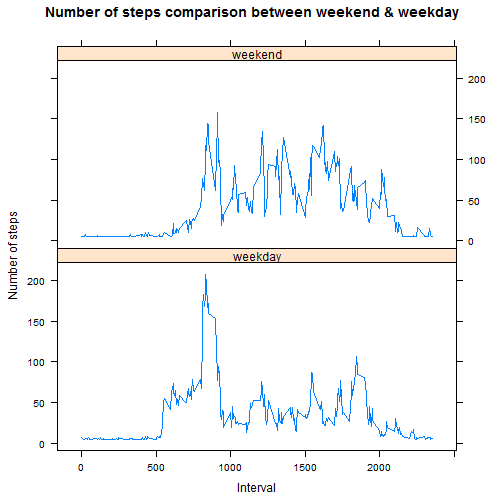
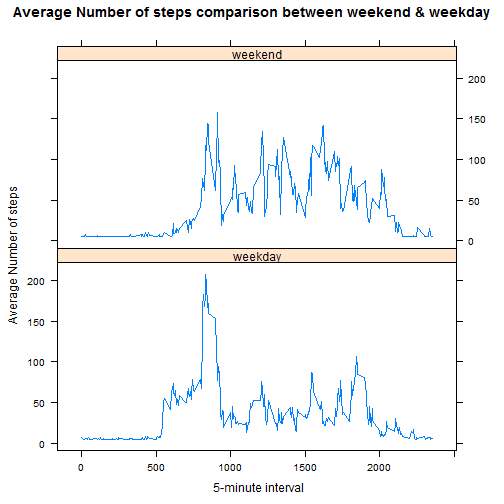
PeerAssessment_1 sumission

Changed region(s): [[0.0298, 0.0, 0.9821, 0.0595], [0.0, 0.3571, 0.0595, 0.6548], [0.4167, 0.9524, 0.625, 0.9821]]

diff --git a/PA1_template.html b/PA1_template.html
@@ -209,24 +209,7 @@ hr {
 
 <pre><code class="r">library(knitr)
 library(dplyr)
-</code></pre>
-
-<pre><code>## Warning: package &#39;dplyr&#39; was built under R version 3.1.3
-</code></pre>
-
-<pre><code>## 
-## Attaching package: &#39;dplyr&#39;
-## 
-## The following object is masked from &#39;package:stats&#39;:
-## 
-##     filter
-## 
-## The following objects are masked from &#39;package:base&#39;:
-## 
-##     intersect, setdiff, setequal, union
-</code></pre>
-
-<pre><code class="r">setwd(&quot;C:/ko/coursea/DataScience/Reproducible Research/PA1&quot;)
+setwd(&quot;C:/ko/coursea/DataScience/Reproducible Research/PA1&quot;)
 LoadData &lt;- read.csv(&quot;activity.csv&quot;)
 </code></pre>
 
@@ -277,11 +260,11 @@ for(i in seq_along(x)){
     }
 x2 &lt;- strptime(x2,format = &quot;%H%M&quot;)  
 plot(x2,avg.steps$average_steps,type = &quot;l&quot;,
-     xlab = &quot;Time&quot;,ylab = &quot;Average number of Steps&quot;, 
-     main = &quot;Average number of steps (averaged across all days)&quot;)
+     xlab = &quot;5-minute interval&quot;,ylab = &quot;Average number of Steps&quot;, 
+     main = &quot;Average number of steps taken (averaged across all days)&quot;)
 </code></pre>
 
[2 lines of base64/hex data omitted]
 
 <p>2: Which 5-minute interval, on average across all the days in the dataset, contains the maximum number of steps?</p>
 
@@ -336,10 +319,10 @@ NewData$steps[row.location.NAS] &lt;- mean.steps
     NewData %&gt;%
     group_by(date) %&gt;%
     summarize(total_steps = sum(steps,na.rm=T))
-hist(new.steps.day$total_steps,xlab=&quot;steps&quot;,main=&quot;Total number of steps taken each day&quot;,col=&quot;blue&quot;)
+hist(new.steps.day$total_steps,xlab=&quot;steps&quot;,main=&quot;Total number of steps taken each day (missing values were imputed)&quot;,col=&quot;blue&quot;)
 </code></pre>
 
[2 lines of base64/hex data omitted]
 
 <pre><code class="r">new.total_steps.mean &lt;- mean(new.steps.day$total_steps)
 new.total_steps.median &lt;- median(new.steps.day$total_steps)
@@ -403,21 +386,16 @@ NewData$weekend &lt;- as.factor(NewData$weekend)
 <p>2: Make a panel plot containing a time series plot (i.e. type = &ldquo;l&rdquo;) of the 5-minute interval (x-axis) and the average number of steps taken, averaged across all weekday days or weekend days (y-axis). See the README file in the GitHub repository to see an example of what this plot should look like using simulated data.</p>
 
 <pre><code class="r">library(lattice)
-</code></pre>
-
-<pre><code>## Warning: package &#39;lattice&#39; was built under R version 3.1.3
-</code></pre>
-
-<pre><code class="r">compare.steps &lt;- 
+compare.steps &lt;- 
     NewData[-2] %&gt;%                         # drop date column
     group_by(interval,weekend) %&gt;%
     summarize(average_steps = mean(steps,na.rm=T))
 xyplot(average_steps ~ as.integer(interval) | weekend, data=compare.steps
-       ,layout=c(1,2), type = &#39;l&#39;, xlab = &quot;Interval&quot;, ylab = &quot;Number of steps&quot;,
-       main = &quot;Number of steps comparison between weekend &amp; weekday&quot;)
+       ,layout=c(1,2), type = &#39;l&#39;, xlab = &quot; 5-minute interval&quot;, ylab = &quot;Average Number of steps&quot;,
+       main = &quot;Average Number of steps comparison between weekend &amp; weekday&quot;)
 </code></pre>
 
[2 lines of base64/hex data omitted]
 
 </body>
 

diff --git a/PA1_template.md b/PA1_template.md
@@ -13,26 +13,6 @@ output: html_document
 ```r
 library(knitr)
 library(dplyr)
-```
-
-```
-## Warning: package 'dplyr' was built under R version 3.1.3
-```
-
-```
-## 
-## Attaching package: 'dplyr'
-## 
-## The following object is masked from 'package:stats':
-## 
-##     filter
-## 
-## The following objects are masked from 'package:base':
-## 
-##     intersect, setdiff, setequal, union
-```
-
-```r
 setwd("C:/ko/coursea/DataScience/Reproducible Research/PA1")
 LoadData <- read.csv("activity.csv")
 ```
@@ -85,8 +65,8 @@ for(i in seq_along(x)){
     }
 x2 <- strptime(x2,format = "%H%M")  
 plot(x2,avg.steps$average_steps,type = "l",
-     xlab = "Time",ylab = "Average number of Steps", 
-     main = "Average number of steps (averaged across all days)")
+     xlab = "5-minute interval",ylab = "Average number of Steps", 
+     main = "Average number of steps taken (averaged across all days)")
 ```
 
 ![plot of chunk unnamed-chunk-4](figure/unnamed-chunk-4-1.png) 
@@ -139,7 +119,7 @@ new.steps.day <-
     NewData %>%
     group_by(date) %>%
     summarize(total_steps = sum(steps,na.rm=T))
-hist(new.steps.day$total_steps,xlab="steps",main="Total number of steps taken each day",col="blue")
+hist(new.steps.day$total_steps,xlab="steps",main="Total number of steps taken each day (missing values were imputed)",col="blue")
 ```
 
 ![plot of chunk unnamed-chunk-9](figure/unnamed-chunk-9-1.png) 
@@ -198,20 +178,13 @@ NewData$weekend <- as.factor(NewData$weekend)
 
 ```r
 library(lattice)
-```
-
-```
-## Warning: package 'lattice' was built under R version 3.1.3
-```
-
-```r
 compare.steps <- 
     NewData[-2] %>%                         # drop date column
     group_by(interval,weekend) %>%
     summarize(average_steps = mean(steps,na.rm=T))
 xyplot(average_steps ~ as.integer(interval) | weekend, data=compare.steps
-       ,layout=c(1,2), type = 'l', xlab = "Interval", ylab = "Number of steps",
-       main = "Number of steps comparison between weekend & weekday")
+       ,layout=c(1,2), type = 'l', xlab = " 5-minute interval", ylab = "Average Number of steps",
+       main = "Average Number of steps comparison between weekend & weekday")
 ```
 
 ![plot of chunk unnamed-chunk-12](figure/unnamed-chunk-12-1.png) 
